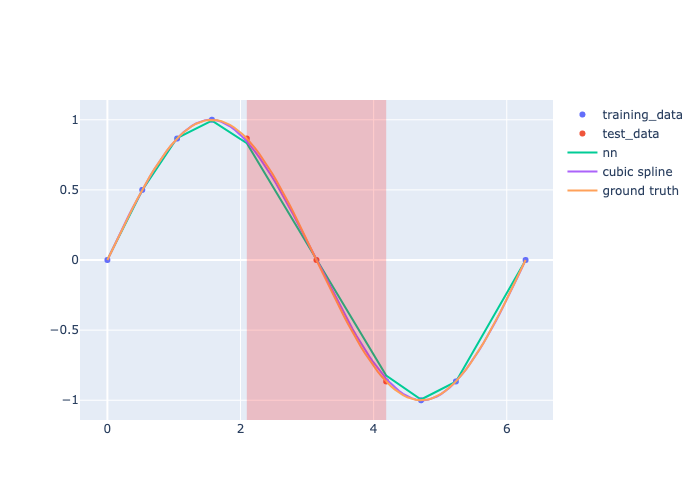
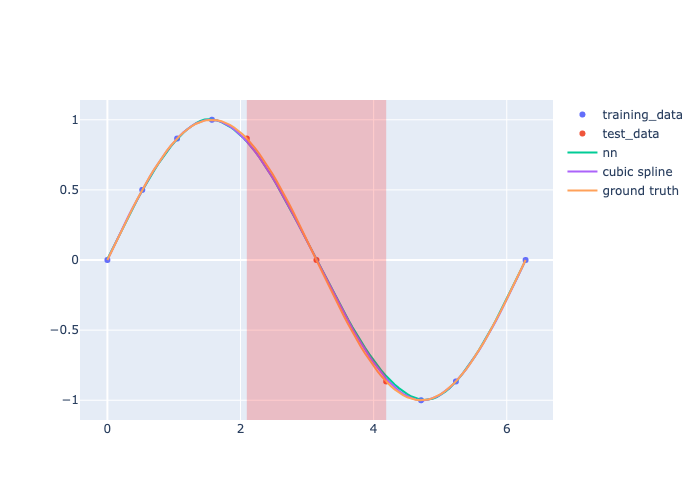
Plot nn on the grid

diff --git a/1d_regression.py b/1d_regression.py
@@ -55,7 +55,7 @@ if __name__ == '__main__':
     trainer.test(model=model, dataloaders=[test_dataloader])
 
     # Using raw data...
-    raw_x_all, raw_y_all = glue_dataset_portions(raw_x_train, raw_y_train, raw_x_test, raw_y_test)
+    raw_x_all, _ = glue_dataset_portions(raw_x_train, raw_y_train, raw_x_test, raw_y_test)
 
     # ...generate a grid with more datapoints
     grid = np.linspace(np.min(raw_x_all), np.max(raw_x_all), 100)
@@ -69,13 +69,7 @@ if __name__ == '__main__':
 
     # ...remembering the linear adjustment, so we can undo it when plotting
     x_all, y_all = glue_dataset_portions(x_train, y_train, x_test, y_test)
-    if parse_bool(args.adjust_data_linearly):
-        train_linreg_predictions = linear(x_train, linear_fit.intercept_, linear_fit.coef_[0])
-        test_linreg_predictions = linear(x_test, linear_fit.intercept_, linear_fit.coef_[0])
-        _, linreg_all = glue_dataset_portions(x_train, train_linreg_predictions, x_test, test_linreg_predictions)
-        linreg_all = linreg_all.reshape(-1, 1)
-    else:
-        linreg_all = np.zeros(shape=(len(x_all), 1))
+
     all_data = torch.tensor(x_all).float().unsqueeze(1)
 
     # ...find NN predictions
@@ -86,6 +80,15 @@ if __name__ == '__main__':
     model_predictions = model(torch.tensor(normalised_grid).float().unsqueeze(1)).cpu().detach().numpy()
     error = calculate_spline_vs_model_error(spline_predictions, model_predictions)
 
+    if parse_bool(args.adjust_data_linearly):
+        unadjusted_nn_preds = model_predictions.reshape(normalised_grid.shape) + \
+                              linear(normalised_grid, linear_fit.intercept_, linear_fit.coef_[0])
+        unadjusted_spline_preds = spline_predictions + linear(normalised_grid, linear_fit.intercept_,
+                                                              linear_fit.coef_[0])
+    else:
+        unadjusted_nn_preds = model_predictions
+        unadjusted_spline_preds = spline_predictions
+
     # Log locally, so I can actually plot these values later...
     with open("logs/nn_vs_variational_solution_error.txt", "a") as f:
         f.write(f"{args.dataset}-{args.generalisation_task}, {str(args.hidden_units)}, {str(error)}\n")
@@ -95,11 +98,9 @@ if __name__ == '__main__':
     # Apply ground truth function to the inputs on the grid.
     fn_y = np.array([fn(el) for el in grid]).reshape(1, -1).squeeze()
 
-    unadjusted_spline_preds = spline_predictions + linear(normalised_grid, linear_fit.intercept_, linear_fit.coef_[0]) \
-        if parse_bool(args.adjust_data_linearly) else spline_predictions
     # Plot the predictions in the original, non-adjusted, non-normalised space.
     plot = plot_data_vs_predictions(raw_x_train, raw_y_train, raw_x_test, raw_y_test,
-                                    raw_x_all, y_all_pred + linreg_all, grid,
+                                    unadjusted_nn_preds, grid,
                                     unadjusted_spline_preds, fn_y, args)
 
     # Wrap up any hanging logger.

diff --git a/utils/plotting.py b/utils/plotting.py
@@ -8,14 +8,14 @@ import wandb
 from utils.utils import parse_bool
 
 
-def plot_data_vs_predictions(x_train, y_train, x_test, y_test, x_all, y_all_pred, grid, g_star_preds, fn_y, args):
+def plot_data_vs_predictions(x_train, y_train, x_test, y_test,  y_all_pred, grid, g_star_preds, fn_y, args):
     fig = go.Figure()
     fig.add_trace(go.Scatter(x=x_train, y=y_train, mode='markers', name='training_data'))
 
     if len(x_test) > 0:
         fig.add_trace(go.Scatter(x=x_test, y=y_test, mode='markers', name='test_data'))
         fig.add_vrect(x0=np.min(x_test), x1=np.max(x_test), line_width=0, fillcolor="red", opacity=0.2)
-    fig.add_trace(go.Scatter(x=x_all, y=y_all_pred.reshape(x_all.shape), mode='lines', name='nn'))
+    fig.add_trace(go.Scatter(x=grid, y=y_all_pred.reshape(grid.shape), mode='lines', name='nn'))
     fig.add_trace(go.Scatter(x=grid, y=g_star_preds.reshape(grid.shape), mode='lines', name='cubic spline'))
     fig.add_trace(go.Scatter(x=grid, y=fn_y, mode='lines', name='ground truth'))
     wandb.log({"plot": fig})
